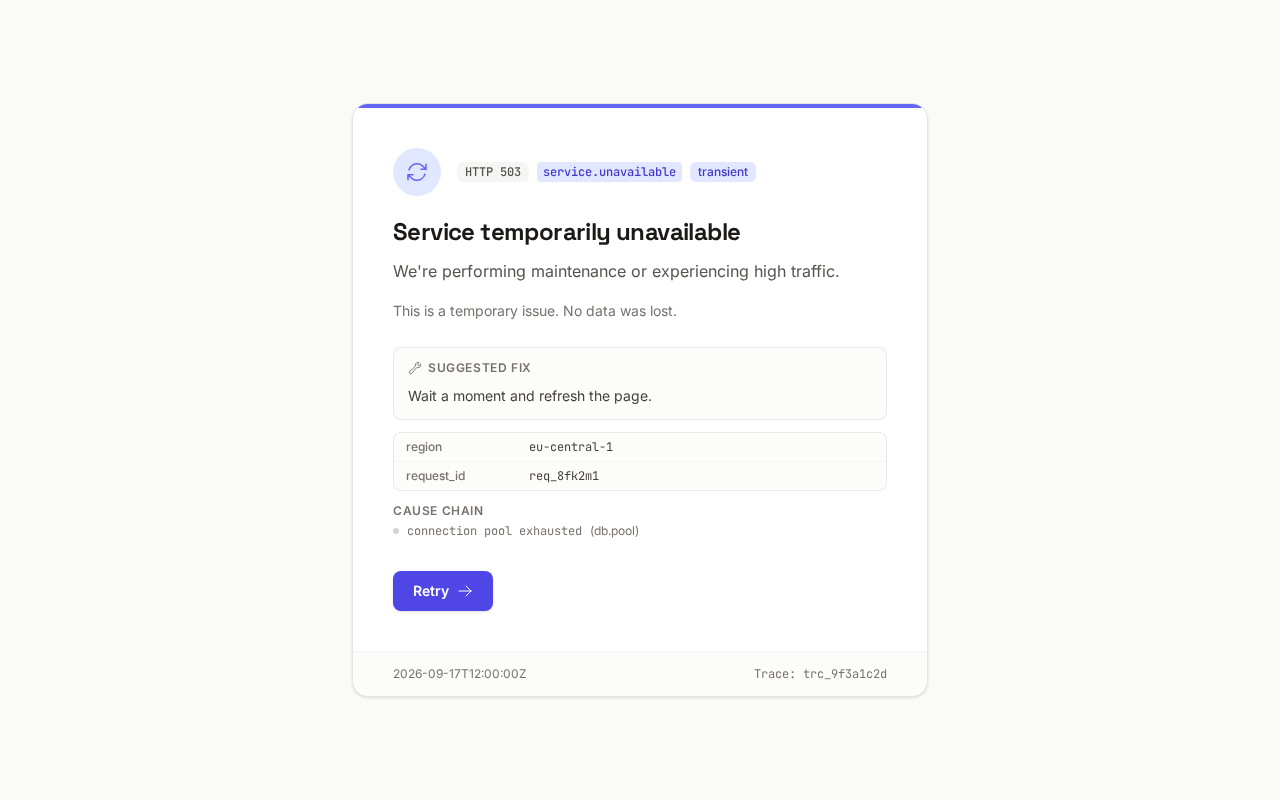
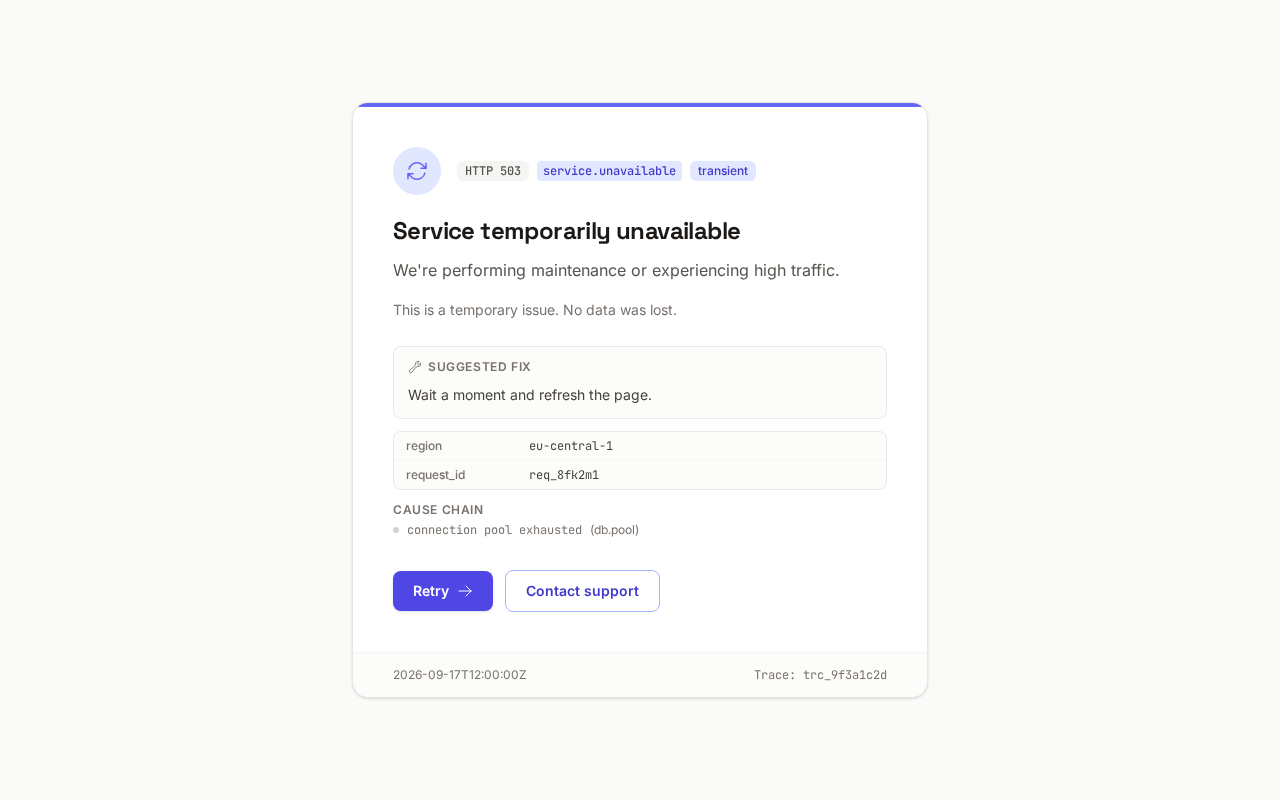
chore: auto-commit 10 changed file(s) (heuristic)

diff --git a/errorpage/styles.go b/errorpage/styles.go
@@ -230,17 +230,75 @@ type ErrorPageProps struct {
 	Fix        string
 	WayOut     string
 	WayOutHref string
+	// WayOutAction is the typed bundle for the primary action. When Text is
+	// set it wins entirely over the loose WayOut/WayOutHref strings (no
+	// mixing) — callers may adopt it without touching existing fields.
+	WayOutAction WayOutAction
 	// SecondaryWayOut renders a secondary (ghost) action next to the primary
 	// way out ("View status page", "Contact support"). With a
 	// SecondaryWayOutHref it renders as a link; without one it behaves like
 	// the primary's no-href variant (go back in history).
 	SecondaryWayOut     string
 	SecondaryWayOutHref string
-	Context             []ContextPair
-	CauseChain          []CauseItem
-	Timestamp           string
-	Trace               string
-	ShowTimestamp       bool
+	// MaxWidth caps the card width. Empty/unknown renders MaxWidthXL (the
+	// pre-field look).
+	MaxWidth     ErrorMaxWidth
+	Context      []ContextPair
+	CauseChain   []CauseItem
+	Timestamp    string
+	Trace        string
+	ShowTimestamp bool
+}
+
+// WayOutAction bundles a recovery action's label with its destination. Href
+// empty means a history-back button (the browser-native way out).
+type WayOutAction struct {
+	Text string
+	Href string
+}
+
+// ErrorMaxWidth selects the ErrorPage card's max width. It is a closed-set
+// enum; unknown values fall back to MaxWidthXL (map+fallback convention).
+type ErrorMaxWidth string
+
+const (
+	ErrorMaxWidthLG  ErrorMaxWidth = "lg"
+	ErrorMaxWidthXL  ErrorMaxWidth = "xl"
+	ErrorMaxWidth2XL ErrorMaxWidth = "2xl"
+	ErrorMaxWidth4XL ErrorMaxWidth = "4xl"
+)
+
+// ErrorMaxWidthIsValid reports whether w is a known ErrorMaxWidth.
+func ErrorMaxWidthIsValid(w ErrorMaxWidth) bool {
+	switch w {
+	case ErrorMaxWidthLG, ErrorMaxWidthXL, ErrorMaxWidth2XL, ErrorMaxWidth4XL:
+		return true
+	default:
+		return false
+	}
+}
+
+//nolint:gochecknoglobals // Package-level lookup table
+var errorMaxWidthClassMap = map[ErrorMaxWidth]string{
+	ErrorMaxWidthLG:  "max-w-lg",
+	ErrorMaxWidthXL:  "max-w-xl",
+	ErrorMaxWidth2XL: "max-w-2xl",
+	ErrorMaxWidth4XL: "max-w-4xl",
+}
+
+// errorMaxWidthClass resolves the Tailwind max-width class, defaulting to XL.
+func errorMaxWidthClass(w ErrorMaxWidth) string {
+	return utils.Lookup(errorMaxWidthClassMap, w, "max-w-xl")
+}
+
+// resolvedWayOut returns the effective primary action: WayOutAction wins
+// entirely when its Text is set; otherwise the loose strings apply.
+func (p ErrorPageProps) resolvedWayOut() (string, string) {
+	if p.WayOutAction.Text != "" {
+		return p.WayOutAction.Text, p.WayOutAction.Href
+	}
+
+	return p.WayOut, p.WayOutHref
 }
 
 // errBlankNonRejection is the Validate error returned when the props would

diff --git a/errorpage/doc.go b/errorpage/doc.go
@@ -54,6 +54,10 @@
 //	Fix          | ✓         | ✓           | ✓          | The suggested fix (renders in its own panel)
 //	WayOut       | ✓         |             |            | Primary action label ("Retry"); requires WayOutHref set
 //	WayOutHref   | ✓         |             |            | Primary action destination
+//	SecondaryWayOut     | ✓ |             |            | Ghost/secondary action label ("Contact support"); without a href it goes back in history
+//	SecondaryWayOutHref | ✓ |             |            | Secondary action destination
+//	WayOutAction | ✓         |             |            | Typed bundle (text+href); wins over WayOut/WayOutHref when Text is set
+//	MaxWidth     | ✓         |             |            | Card width enum (MaxWidthXL default; LG/2XL/4XL)
 //	Context      | ✓         | ✓           |            | Key/value diagnostics (region, request_id, ...)
 //	CauseChain   | ✓         | ✓           |            | Ordered causes, deepest first (message + optional code)
 //	Timestamp    | ✓         | ✓           |            | RFC3339; FromError uses the error's own when available

diff --git a/ROADMAP.md b/ROADMAP.md
@@ -26,7 +26,7 @@ The library is feature-complete for production server-rendered Go web apps.
 | Error pages       | `errorpage` package: 404, full-page, inline detail, family-aware alert, `http.Handler` integration                                                                                                                                                                                                                                                                                                                              |
 | Theming           | Semantic token layer (`templ-components-theme.css`) + 3 presets (included by default since v2.0). HTMX self-hosted via `//go:embed` by default since v2.0 (ADR-0022); CDN still available via `PageProps.HTMXSrc = ""` + `HTMXVersion`.                                                                                                                                                                                         |
 | Container queries | 8 container-aware components (`Grid`/`Card`/`Split`/`Nav`/`Form`/`Pagination`/`DefinitionGrid`/`SkeletonCardGrid` `.ContainerAware`) adapt to parent width via `@container` instead of the viewport. ADR-0018. **Since v2.0, `Grid`/`Card`/`Split` default `true`** (opt-out); the other 5 remain opt-in. **Fluid typography** via container query units (`cqi`) — `.tc-fluid-*` classes (ADR-0018 analog).                     |
-| Testing & QA      | Golden-file HTML snapshots (`utils/golden` — 253 baselines across all packages), drift-guard tests (component/enum/version counts), **pixel-level visual regression** (`visualtest/` — chromedp + pixelmatch, `nix run .#visual`; 161 goldens incl. charts, dark-mode variants, RTL, and interaction states), and compliance scanners (dark mode, motion-reduce, RTL logical properties, container-query, generated-file sync). |
+| Testing & QA      | Golden-file HTML snapshots (`utils/golden` — 255 baselines across all packages), drift-guard tests (component/enum/version counts), **pixel-level visual regression** (`visualtest/` — chromedp + pixelmatch, `nix run .#visual`; 163 goldens incl. charts, dark-mode variants, RTL, and interaction states), and compliance scanners (dark mode, motion-reduce, RTL logical properties, container-query, generated-file sync). |
 | Module structure  | **7-module workspace** (ADR-0034): `utils` (leaf), `icons`, `errorpage` (isolates go-error-family), `charts/echarts`, `htmx`, `datastar`, root. `go.work` for local dev, `replace` directives for CI/consumers. Shared versioning — `scripts/release.sh` tags all 7 modules. Supersedes ADR-0020 (per-package split, deferred).                                                                                                 |
 
 **Current version:** see [`utils/version.go`](utils/version.go) and the latest
@@ -196,7 +196,7 @@ Pending register shipped (TODO #247-249 cover the test debt); the ideas below ar
 | Demo / showcase site           | A hosted site rendering every component with live props.                                                                                                                                                                                                                                                                                                                                                                                                                                |
 | Wire trigger language          | Typed interval/intersect polling triggers in the wire contract (htmx `every`/`revealed` vs datastar `data-on-interval`/`data-on-intersect`) — ADR-sized, bundle-verified capabilities. See TODO #178 and the transport-wiring signaling notes.                                                                                                                                                                                                                                          |
 | Wire busy signaling            | A cross-transport busy/indicator helper — current verdict is docs-only (the CSS-class and signal models are too different); revisit if consumers ask.                                                                                                                                                                                                                                                                                                                                   |
-| Visual test coverage expansion | 161 goldens shipped. Chart components (LineChart/PieChart/DonutChart/AreaChart), dark-mode variants for Combobox/Tooltip/Carousel/Skeleton/ErrorPage/NotFound404, and v1.5–v1.6 components (BarChart, Heatmap, Sparkline, CollapsibleSection, ExternalLink, PolledRegion, DataTable) all gained goldens in v1.8.0. Remaining: interaction-state + RTL variants for newer components.                                                                                                    |
+| Visual test coverage expansion | 163 goldens shipped. Chart components (LineChart/PieChart/DonutChart/AreaChart), dark-mode variants for Combobox/Tooltip/Carousel/Skeleton/ErrorPage/NotFound404, and v1.5–v1.6 components (BarChart, Heatmap, Sparkline, CollapsibleSection, ExternalLink, PolledRegion, DataTable) all gained goldens in v1.8.0. Remaining: interaction-state + RTL variants for newer components.                                                                                                    |
 | Container-aware expansion      | Fluid typography via container query units (`cqi`) shipped (`.tc-fluid-*` classes + recipe). Candidates for `.ContainerAware` (`Container`, `Breadcrumbs`, `EmptyState`, `NotFound404`, `Footer`) **evaluated and rejected** — none meet all three ADR-0018 criteria. `containerAwareWrapper` consolidation **declined** (minimal boilerplate, ADR-0009). Strategy doc: `docs/container-query-strategy.md`. Container **style queries** (`@container style()`) deferred until Baseline. |
 | Chart ecosystem                | Additional SVG chart types (scatter plot, treemap, funnel), animation support (stroke-dashoffset draw-in with `motion-reduce` guard), data labels, tooltip support, `Href` on PieChart slices, `DownloadAsSVG` helper, `PrintFriendly` option.                                                                                                                                                                                                                                          |
 | Kanban sorted-views API        | A `KanbanBoardProps`-level story for server-sorted views (a `Reorderable`-style flag) — rejected on godoc-first grounds; build ONLY when a real consumer asks. Until then the contract is documentation-only: the index is advisory, and sorted views reject same-column moves (see `ParseKanbanMove` godoc + `docs/recipes/kanban-card-anatomy.md`). Source: docs/status/2026-09-16_19-12 §f32.                                                                                        |

diff --git a/AGENTS.md b/AGENTS.md
@@ -214,7 +214,7 @@ restart the LSP when diagnostics actively mislead (e.g. the phantom go-1.27.1 er
 - **Drawer:** `display.Drawer` — accessible side panel rendered as a native `<dialog>` with `data-side="left"`/`"right"`. CSS positions the dialog via `margin-inline-*` (auto-mirrors in RTL) and animates via `translateX`. Side positioning is in `templates/custom.css` under `dialog.tc-drawer[data-side=...]`.
 - **ValidationSummary:** `forms.ValidationSummary` — accessible error summary with icon, error count, linked field errors, `role="alert"`.
 - **Snapshot testing strategy (three tiers):**
-  1. **HTML golden tests** (`utils/golden`) — fast, deterministic, the backbone. 253 golden files across all packages. Two normalizations: (a) CSS class tokens sorted alphabetically inside `class="..."`, (b) auto-generated EnsureID values (`tc-<prefix>-<16hex>`) replaced with `tc-<prefix>-NORMALIZED` so EnsureID-using components (Accordion, Tabs, Dropdown, Tooltip, Carousel, ContextMenu, Combobox, Nav) are safe for golden testing without explicit IDs. LCS-based diff with line numbers. Update with `-update` flag.
+  1. **HTML golden tests** (`utils/golden`) — fast, deterministic, the backbone. 255 golden files across all packages. Two normalizations: (a) CSS class tokens sorted alphabetically inside `class="..."`, (b) auto-generated EnsureID values (`tc-<prefix>-<16hex>`) replaced with `tc-<prefix>-NORMALIZED` so EnsureID-using components (Accordion, Tabs, Dropdown, Tooltip, Carousel, ContextMenu, Combobox, Nav) are safe for golden testing without explicit IDs. LCS-based diff with line numbers. Update with `-update` flag.
   2. **Substring assertions** (`utils.AssertContains`/`AssertNotContains`/`AssertContainsAll`) — lightweight checks for individual attributes/structure. Use for targeted invariant checks (e.g., "must contain `aria-label`"), not as a substitute for golden tests.
   3. **Visual regression** (`visualtest.AssertScreenshot`) — pixel-level PNG comparison in headless Chromium. Catches what string tests cannot: layout shifts, color regressions, RTL mirroring. Separate module. Run via `nix run .#visual`.
 - **Table-driven golden tests:** Use `golden.AssertSnapshots(t, []golden.Snapshot{{name, html}, ...})` to batch multiple snapshots as parallel subtests. Eliminates `t.Run` + `golden.Assert` boilerplate. Pattern: `golden_sweep_test.go` files in each package cover all component variants.
@@ -371,7 +371,7 @@ package also uses `encoding/json/v2`. Remaining packages (tests) still use
 - **Motion-reduce compliance test:** `utils.TestMotionReduceCompliance` scans all `.templ` files for `transition-*`/`animate-*` classes without `motion-reduce:` fallback. Run via `go test ./utils/... -run TestMotionReduce`.
 - **Coarse-pointer compliance test (2026-09-09):** `utils.TestCoarsePointerCompliance` scans all `.templ` files for hover-revealed functionality (`opacity-0`/`hidden` + `group-hover:`/`peer-hover:`) without a touch fallback. The compliant pattern: the element carries a `tc-*` hook class covered by an `@media (pointer: coarse)` rule in `templates/custom.css` (see `.tc-kanban-buttons`); tooltips/hover cards are the documented exemptions (ADR-0017 progressive enhancement). Run via `go test ./utils/... -run TestCoarsePointer`.
 - **A11y guard family (M21, 2026-09-14):** `utils.TestAriaLivePoliteness` bans `aria-live="assertive"` in library `.templ` sources — urgency goes through `role="alert"` only (policy: `docs/aria-live-politeness.md`). Browser audits in visualtest (run with the visual suite): `TestTouchTargetAudit` (all interactive elements ≥ 24×24 CSS px at 375px; spec exemptions: sr-only, native checkbox/radio, text-only inline links) and `TestZoomReflowAudit` (zero horizontal overflow at 640/320px viewports, WCAG 1.4.10). Icon-only/small controls follow the hit-box pattern: `p-1.5 -m-1.5` (hit box grows, layout does not) or a size-wrapped inner visual (Carousel dots); interactive inputs carry real height (`h-6`+). `templates/custom.css` owns the forced-colors focus-outline restore (rings are box-shadow → invisible under forced-colors) and the prefers-contrast border remap.
-- **Docs-count drift-guard (2026-09-13 hardening):** `utils.TestDocsCountDrift` (docs_count_test.go) verifies every prose count claim against reality — components (total + per-package), icons, `IsValid()` methods, generated `*_templ.go` files, HTML golden baselines (253), and visual goldens — across README, FEATURES, ROADMAP, AGENTS, skill/SKILL.md, and the website's hand-written docs prose (`api-reference.md` "N typed string enums", `guides/invariants.md` "`IsValid` function — N today"; added 2026-09-17 after the 58-vs-60 drift shipped). The site's RENDERED counts need no guard (derived from `build.CountStats` at build time). When you add/remove a component, icon, or golden, update the doc numbers in the same commit or this test fails CI. (Supersedes the deleted informational `TestSkillComponentCount` ghost guard.)
+- **Docs-count drift-guard (2026-09-13 hardening):** `utils.TestDocsCountDrift` (docs_count_test.go) verifies every prose count claim against reality — components (total + per-package), icons, `IsValid()` methods, generated `*_templ.go` files, HTML golden baselines (255), and visual goldens — across README, FEATURES, ROADMAP, AGENTS, skill/SKILL.md, and the website's hand-written docs prose (`api-reference.md` "N typed string enums", `guides/invariants.md` "`IsValid` function — N today"; added 2026-09-17 after the 58-vs-60 drift shipped). The site's RENDERED counts need no guard (derived from `build.CountStats` at build time). When you add/remove a component, icon, or golden, update the doc numbers in the same commit or this test fails CI. (Supersedes the deleted informational `TestSkillComponentCount` ghost guard.)
 - **Fuzz tests:** `forms.FuzzInputType`, `forms.FuzzFormMethod`, `display.FuzzButtonHTMLType` verify enum validation never panics on arbitrary input. Run via `go test -fuzz=. -run=Fuzz ./...`.
 - **Benchmark suites:** Now in 7 packages (display, feedback, navigation, forms, layout, htmx, icons, utils). Run via `go test -bench=. -benchmem ./...`.
 - **goconst zero issues:** all repeated string literals are named constants — keep it that way.

diff --git a/FEATURES.md b/FEATURES.md
@@ -517,7 +517,7 @@ _(None currently)_
 - **Accessibility:** `aria-*` attributes, `role` attributes, screen-reader text, keyboard navigation (modal focus trap, dropdown arrows, tabs)
 - **Responsive:** Mobile-first viewport breakpoints (`sm:`/`md:`/`lg:`) plus **container queries** — 8 components accept `ContainerAware` to adapt to their parent container width via `@container` instead of the viewport (ADR-0018). Since v2.0, `Grid`, `Card`, and `Split` default `ContainerAware: true` (opt-out); the other 5 default `false` (opt-in). **Fluid typography** via container query units (`cqi`) — `.tc-fluid-*` utility classes scale text with container width (ADR-0018 analog; recipe: `docs/recipes/fluid-typography.md`).
 - **Type Safety:** 62 typed string enums (61 with `IsValid()` methods + tests), `utils.BaseProps` embedded in all Props structs
-- **Test Coverage:** 72.3% total statement coverage across library packages (range 48.2%–81.8%; CI-enforced ≥ 70% via `go test -race -coverprofile=...`; recompute with `nix run .#coverage`). BDD + golden-file HTML snapshots (`utils/golden` in 5 packages, 253 baselines) + a11y + benchmark + integration tests, plus pixel-level **visual regression** tests (`visualtest/` — chromedp + pixelmatch, `nix run .#visual`; 161 goldens incl. charts, dark-mode variants, and RTL coverage) and drift-guard tests enforcing doc/code count consistency (component, enum, generated-file, dark-mode, motion-reduce, RTL, container-query, CSS-freshness, lint-config).
+- **Test Coverage:** 72.3% total statement coverage across library packages (range 48.2%–81.8%; CI-enforced ≥ 70% via `go test -race -coverprofile=...`; recompute with `nix run .#coverage`). BDD + golden-file HTML snapshots (`utils/golden` in 5 packages, 255 baselines) + a11y + benchmark + integration tests, plus pixel-level **visual regression** tests (`visualtest/` — chromedp + pixelmatch, `nix run .#visual`; 163 goldens incl. charts, dark-mode variants, and RTL coverage) and drift-guard tests enforcing doc/code count consistency (component, enum, generated-file, dark-mode, motion-reduce, RTL, container-query, CSS-freshness, lint-config).
 - **Theming:** Tailwind v4 `@theme` override support via `templ-components-theme.css`. Components emit standard utility classes (`bg-blue-600`, `text-gray-900`) — consumers override `--color-*` variables to theme globally without touching component code.
 - **CSS Automation:** `templates/app.css` + `templates/custom.css` starter entry-point + BuildFlow `tailwind-build` provider (auto-discovers CSS entry-points, compiles via `tailwindcss` in the DAG). See `docs/tailwind-v4-adoption-guide.md`.
 - **RTL/i18n:** All CSS uses logical properties (`ms-`/`me-`/`ps-`/`pe-`/`start-`/`end-`). Components auto-mirror in `dir="rtl"` contexts. Keyboard nav (Tabs, Dropdown) swaps ArrowLeft/Right in RTL.

diff --git a/README.md b/README.md
@@ -374,7 +374,7 @@ See the [Theming guide](https://templcomponents.lars.software/guides/theming/) f
 | Typed enums    | 62 (61 with IsValid)                                |
 | Packages       | 15                                                  |
 | Tests          | ~1,070 test functions + ~1,240 subtests             |
-| Visual goldens | 161 pixel-level regression tests (chromedp)         |
+| Visual goldens | 163 pixel-level regression tests (chromedp)         |
 | Dependencies   | 3 (`templ`, `tailwind-merge-go`, `go-error-family`) |
 
 ---
